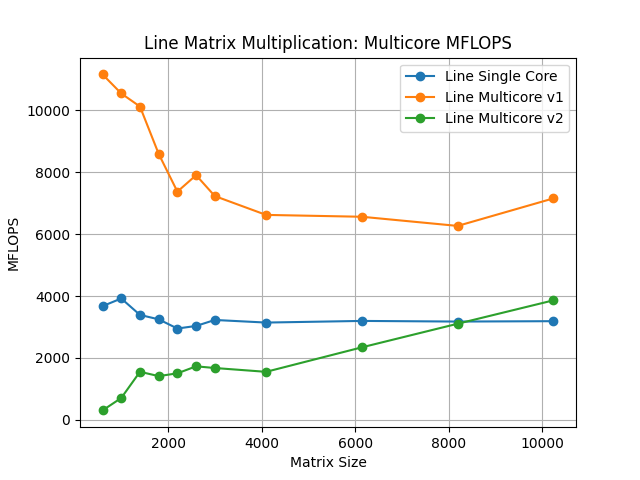
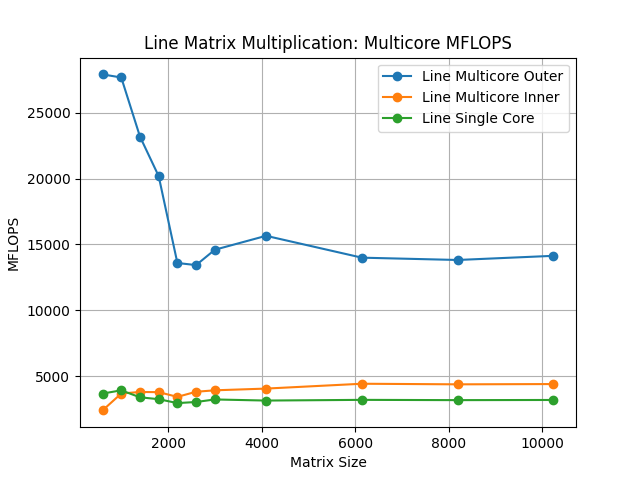
Data and graphics for multicore

diff --git a/assign1/doc/graphics/graphics.py b/assign1/doc/graphics/graphics.py
@@ -18,24 +18,20 @@ complete_line_df = pd.concat(
     ignore_index=True,
 )
 
-line_df_multicore_v1 = pd.read_csv("multicore_data_v1.csv")
-line_df_multicore_v2 = pd.read_csv("multicore_data_v2.csv")
+line_df_multicore_inner = pd.read_csv("multicore_data_inner.csv")
+line_df_multicore_outer = pd.read_csv("multicore_data_outer.csv")
 
 # matrix multiplication: 2 * n ^ 3 floating points operations
 flops_func = lambda df: 2 * df["matrix_size"] ** 3 / df["time"] / 1e6
-for df in [complete_line_df, line_df_multicore_v1, line_df_multicore_v2]:
+for df in [complete_line_df, line_df_multicore_inner, line_df_multicore_outer]:
     df["flops"] = flops_func(df)
 
 speedup_func = lambda df: complete_line_df["time"] / df["time"]
 efficiency_func = lambda df: df["speedup"] / df["num_threads"]
 
-for df in [line_df_multicore_v1, line_df_multicore_v2]:
+for df in [line_df_multicore_inner, line_df_multicore_outer]:
     df["speedup"] = speedup_func(df)
     df["efficiency"] = efficiency_func(df)
-
-print(complete_line_df)
-print(line_df_multicore_v1)
-print(line_df_multicore_v2)
 
 
 def plot_line(data, label, y="time"):
@@ -96,28 +92,28 @@ def plot_line_go_vs_cpp():
 
 
 def plot_multicore_flops():
+    plot_line(line_df_multicore_outer, label="Line Multicore Outer", y="flops")
+    plot_line(line_df_multicore_inner, label="Line Multicore Inner", y="flops")
     plot_line(complete_line_df, label="Line Single Core", y="flops")
-    plot_line(line_df_multicore_v1, label="Line Multicore v1", y="flops")
-    plot_line(line_df_multicore_v2, label="Line Multicore v2", y="flops")
     finish_plot("Line Matrix Multiplication: Multicore MFLOPS", ylabel="MFLOPS")
 
 
 def plot_multicore_time():
+    plot_line(line_df_multicore_outer, label="Line Multicore Outer")
+    plot_line(line_df_multicore_inner, label="Line Multicore Inner")
     plot_line(complete_line_df, label="Line Single Core")
-    plot_line(line_df_multicore_v1, label="Line Multicore v1")
-    plot_line(line_df_multicore_v2, label="Line Multicore v2")
     finish_plot("Line Matrix Multiplication: Multicore Time")
 
 
 def plot_multicore_speedup():
-    plot_line(line_df_multicore_v1, label="Line Multicore v1", y="speedup")
-    plot_line(line_df_multicore_v2, label="Line Multicore v2", y="speedup")
+    plot_line(line_df_multicore_outer, label="Line Multicore Outer", y="speedup")
+    plot_line(line_df_multicore_inner, label="Line Multicore Inner", y="speedup")
     finish_plot("Line Matrix Multiplication: Multicore Speedup", ylabel="Speedup")
 
 
 def plot_multicore_efficiency():
-    plot_line(line_df_multicore_v1, label="Line Multicore v1", y="efficiency")
-    plot_line(line_df_multicore_v2, label="Line Multicore v2", y="efficiency")
+    plot_line(line_df_multicore_outer, label="Line Multicore Outer", y="efficiency")
+    plot_line(line_df_multicore_inner, label="Line Multicore Inner", y="efficiency")
     finish_plot("Line Matrix Multiplication: Multicore Efficiency", ylabel="Efficiency")
 
 

diff --git a/assign1/src/multicore_matrixproduct.cpp b/assign1/src/multicore_matrixproduct.cpp
@@ -136,7 +136,7 @@ void runFunctionTests(ofstream &ofs, double (*f)(int, int)) {
 
 void runTests(const string &filename) {
 	ofstream ofs(filename);
-	// runFunctionTests(ofs, OnMultLineParallelOuterFor);
+	runFunctionTests(ofs, OnMultLineParallelOuterFor);
 	runFunctionTests(ofs, OnMultLineParallelInnerFor);
 }
 
